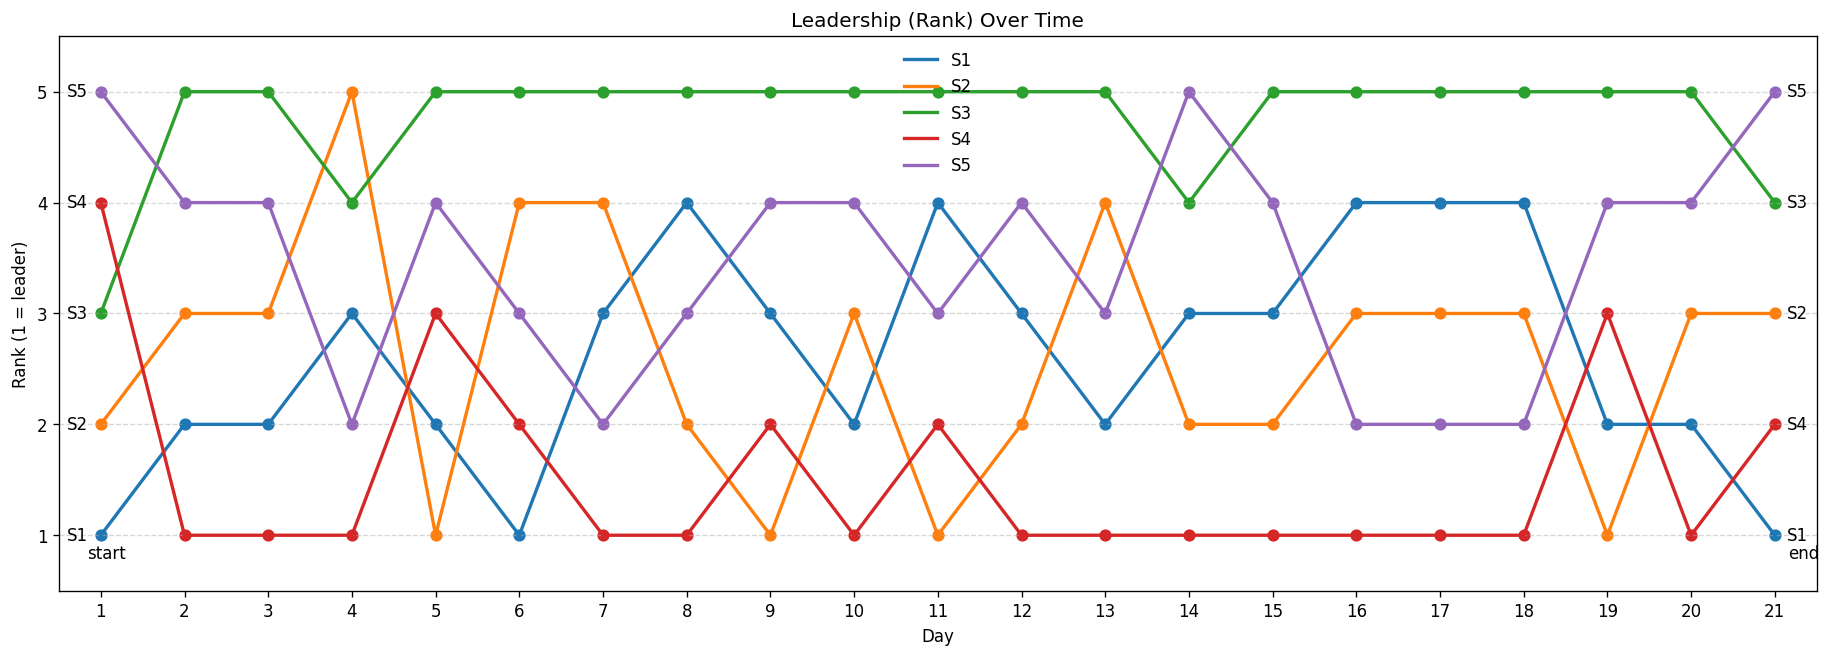
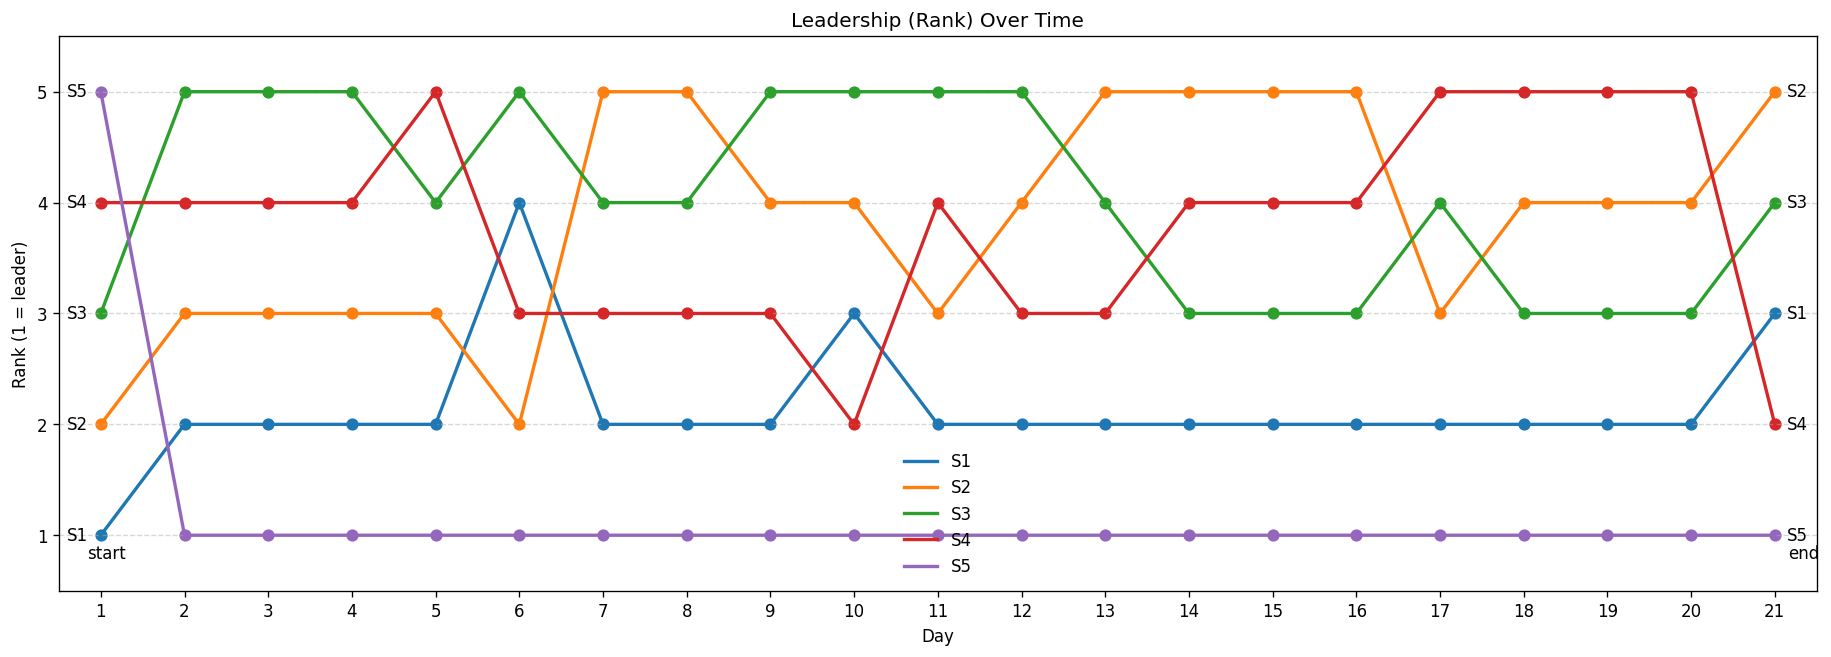
it split a products by day per storage into k orders by a given distribution

diff --git a/data-generator/src/Generator.py b/data-generator/src/Generator.py
@@ -6,36 +6,41 @@ def softmax(x):
 
 class Generator:
     def __init__(self, 
-                 orders_per_day_function,
+                 products_per_day_function,
                  storages_popularity,
                  random_generator,
                  n_days=360,
                  n_storages=30,
                  persistence=0.5,
                  latent_noise=0.5,
-                 popularity_noise=250
+                 popularity_noise=250,
+                 average_order_size=10,
+                 order_noise=250
                  ):
         if len(storages_popularity) == n_storages:
             #generated data
             self.n_days = n_days
             self.n_storages = n_storages
-            self.orders_by_day = np.zeros((n_days + 1, n_storages))
+            self.products_by_day = np.zeros((n_days + 1, n_storages))
+            self.orders_by_day = np.empty((n_days + 1, n_storages), dtype=object)
 
             #constants
             self.storages_popularity = storages_popularity
             self.persistence = persistence
             self.latent_noise = latent_noise
             self.popularity_noise = popularity_noise
+            self.average_order_size = average_order_size
+            self.order_noise = order_noise
 
             #functions
             self.random_generator = random_generator
-            self.function_orders_per_day = orders_per_day_function
+            self.function_products_per_day = products_per_day_function
 
             #time depending
             self.t = 1
             self.latent_scores = np.zeros((n_days + 1, n_storages))
         else:
-             raise ValueError("shape of storages_popularity must be equal to n_storages")
+            raise ValueError("shape of storages_popularity must be equal to n_storages")
 
         
     def calculate_latent_scores(self,
@@ -52,35 +57,76 @@ class Generator:
                              probabilities):
         alpha_probabilities = self.popularity_noise * probabilities
         daily_storages_popularity_probability = self.random_generator.generate_dirichlet(alpha_probabilities, 1)
+        daily_storages_popularity_probability = daily_storages_popularity_probability.squeeze(0)
 
         return daily_storages_popularity_probability
 
 
-    def generate_orders(self,
-                        t):
+    def generate_products_by_day(self,
+                                 t):
         self.latent_scores[0] = np.log(self.storages_popularity)
         log_storages_popularity = np.log(self.storages_popularity)
 
-        n_orders = self.function_orders_per_day(t)
+        n_products = self.function_products_per_day(t)
         self.latent_scores[t] = self.calculate_latent_scores(log_storages_popularity, 
                                                              self.latent_scores[t-1])
         daily_storages_popularity_probability = softmax(self.latent_scores[t])
         daily_storages_popularity_probability = self.add_popularity_noise(daily_storages_popularity_probability)
-        daily_orders = self.random_generator.generate_multinomial(n_orders, daily_storages_popularity_probability, 1)
+        daily_products = self.random_generator.generate_multinomial(n_products, daily_storages_popularity_probability, 1)
         
-        return daily_orders
+        return daily_products
     
-    def generate_orders_by_day(self):
-        for t in range(1, self.n_days + 1):
-            self.orders_by_day[t] = self.generate_orders(t)
-            #allocate orders on a 24h-range
+    def generate_n_orders(self,
+                          products):
+        cut_probability = (products / float(self.average_order_size) - 1.0) / (products - 1)
+        cut_probability = float(np.clip(cut_probability, 0.0, 1.0))
+        cuts = self.random_generator.generate_binomial(products -1, cut_probability)
+        n_orders = cuts + 1
+
+        return n_orders
+
+    def generate_orders_by_storage(self,
+                                   products,
+                                   n_orders):
+        alpha_proportion = np.full(n_orders, 1.0 / n_orders)
+        orders_proportion = self.random_generator.generate_dirichlet(self.order_noise * alpha_proportion, 1)
+        orders_proportion = orders_proportion.squeeze(0)
+        orders_sizes = np.floor(orders_proportion * products).astype(int) 
+        leftover = products - orders_sizes.sum()
+        
+        if leftover > 0:
+            orders_sizes[0] += leftover
+        elif leftover < 0:
+            raise ValueError("the leftover is negative")
+        
+        return orders_sizes
+
+    def move_forward_in_time(self):
+        for day in range(1, self.n_days + 1):
+            self.products_by_day[day] = self.generate_products_by_day(day)
+
+            for storage, products_by_storage in enumerate(self.products_by_day[day]):
+                if(products_by_storage == 0):
+                    orders = np.zeros(0)
+                else:
+                    n_orders = self.generate_n_orders(products_by_storage)
+                    orders = self.generate_orders_by_storage(products_by_storage, n_orders)
+                    
+                self.orders_by_day[day, storage] = orders
+
+                print(f"{storage}-{products_by_storage} products to split in {n_orders}, day {day}", orders, f" checksum {np.sum(orders)}")
+
+                if(np.sum(orders) != products_by_storage):
+                    raise ValueError("Sum of vector orders doesn't match the products_by_storage")
+                
+        print(self.orders_by_day[1])
 
 if __name__ == "__main__":
 
-    def orders_per_day_function(t):
-        orders = 400 + pow(t,2)
+    def products_per_day_function(t):
+        products = 400 + pow(t,2)
     
-        return orders
+        return products
 
     def generate_base_storages_popularity(n_storages):
         storages_popularity = np.random.normal(0, 1, n_storages)
@@ -92,12 +138,6 @@ if __name__ == "__main__":
     n_storages=30
     storages_popularity = generate_base_storages_popularity(5)
 
-    generator = Generator(orders_per_day_function,
-                          storages_popularity,
-                          n_days=2,
-                          n_storages=5)
-
-    generator.generate_orders_by_day()
 
 
 

diff --git a/data-generator/src/Plotter.py b/data-generator/src/Plotter.py
@@ -17,7 +17,7 @@ class Plotter:
         path = self.images_path + file_name
         figure.savefig(path, bbox_inches="tight", dpi=120)
         plt.close(figure)
-        print(f"Saved plot to {path}")
+        print(f"Plotter: saved plot to {path}")
 
     def plot_distribution_continuous(self,
                                      data,
@@ -54,36 +54,36 @@ class Plotter:
         self.save_plot(figure, file_name)
 
     #specific methods
-    def show_orders_by_storage_distribution(self,
-                                            orders_by_day):
-        orders_by_storage = np.sum(orders_by_day, axis=0)
-        orders_by_storage = orders_by_storage / np.sum(orders_by_storage)
-        print(orders_by_storage)
-        self.plot_distribution_discrete(orders_by_storage, "orders_by_storage.png", title="Orders (probability) in overall time by storage")
+    def show_products_by_storage_distribution(self,
+                                            products_by_day):
+        products_by_storage = np.sum(products_by_day, axis=0)
+        products_by_storage = products_by_storage / np.sum(products_by_storage)
+        print("Plotter: Products by storage ", products_by_storage)
+        self.plot_distribution_discrete(products_by_storage, "products_by_storage.png", title="products (probability) in overall time by storage")
     
     def show_leadership_over_time(
         self,
-        orders_by_day,
+        products_by_day,
         file_name="leadership_bump.png",
         top_k=None,
         labels=None,
         title="Leadership (Rank) Over Time",
         connect=True,          
         show_points=True):
-        orders_by_day = np.asarray(orders_by_day)
-        T, M = orders_by_day.shape
+        products_by_day = np.asarray(products_by_day)
+        T, M = products_by_day.shape
 
         # ranks per day (1 = leader)
-        ranks = np.zeros_like(orders_by_day, dtype=int)
+        ranks = np.zeros_like(products_by_day, dtype=int)
         for t in range(T):
-            order = np.argsort(-orders_by_day[t])
+            product = np.argsort(-products_by_day[t])
             r = np.empty(M, dtype=int)
-            r[order] = np.arange(1, M + 1)
+            r[product] = np.arange(1, M + 1)
             ranks[t] = r
 
         # optional: reduce clutter to top_k storages by total volume
         if top_k is not None and 1 <= top_k < M:
-            totals = orders_by_day.sum(axis=0)
+            totals = products_by_day.sum(axis=0)
             keep = np.argsort(-totals)[:top_k]
             ranks = ranks[:, keep]
             M = top_k

diff --git a/data-generator/src/main.py b/data-generator/src/main.py
@@ -6,37 +6,37 @@ from DistributionGenerator import DistributionGenerator
 from Generator import Generator
 from Generator import softmax
 
-def orders_per_day_function(t):
-    orders = 400 + pow(t,2)
+def products_per_day_function(t):
+    products = 400 + pow(t,2)
 
-    return orders
+    return products
 
 def generate_base_storages_popularity(n_storages, random_generator):
     storages_popularity = random_generator.generate_normal(n_storages, 0, 1)
     storages_popularity = softmax(storages_popularity)
-    print(storages_popularity)
+    print("Main: storage popularity ", storages_popularity)
     return storages_popularity
 
 def main():
-    seed = int(time.time()); print(seed)
-    random_generator = DistributionGenerator(1758960033)
+    seed = int(time.time()); print("Main: seed ", seed)
+    random_generator = DistributionGenerator(seed) #1758960033
     plotter = Plotter()
 
     n_days=20
     n_storages=5
     storages_popularity = generate_base_storages_popularity(n_storages, random_generator)
 
-    generator = Generator(orders_per_day_function,
+    generator = Generator(products_per_day_function,
                           storages_popularity,
                           random_generator,
                           n_days=n_days,
                           n_storages=n_storages)
 
-    generator.generate_orders_by_day()
-    plotter.show_orders_by_storage_distribution(generator.orders_by_day)
-    plotter.show_leadership_over_time(generator.orders_by_day)
+    generator.move_forward_in_time()
+
+    plotter.show_products_by_storage_distribution(generator.products_by_day)
+    plotter.show_leadership_over_time(generator.products_by_day)
 
 if __name__ == "__main__":
     main()
-
-
+   

diff --git a/data-generator/src/DistributionGenerator.py b/data-generator/src/DistributionGenerator.py
@@ -20,10 +20,13 @@ class DistributionGenerator:
         return self.rng.normal(0, noise, size)
     
     def generate_dirichlet(self, alpha, size=1000):
-        return self.rng.dirichlet(alpha, size)
+        return self.rng.dirichlet(alpha)
     
     def generate_multinomial(self, n, probabilities, size=1000):
         return self.rng.multinomial(n, probabilities) #size can be problematic
+
+    def generate_binomial(self, size, probability):
+        return self.rng.binomial(size, probability)
 
 if __name__ == "__main__":
     generator = DistributionGenerator()
